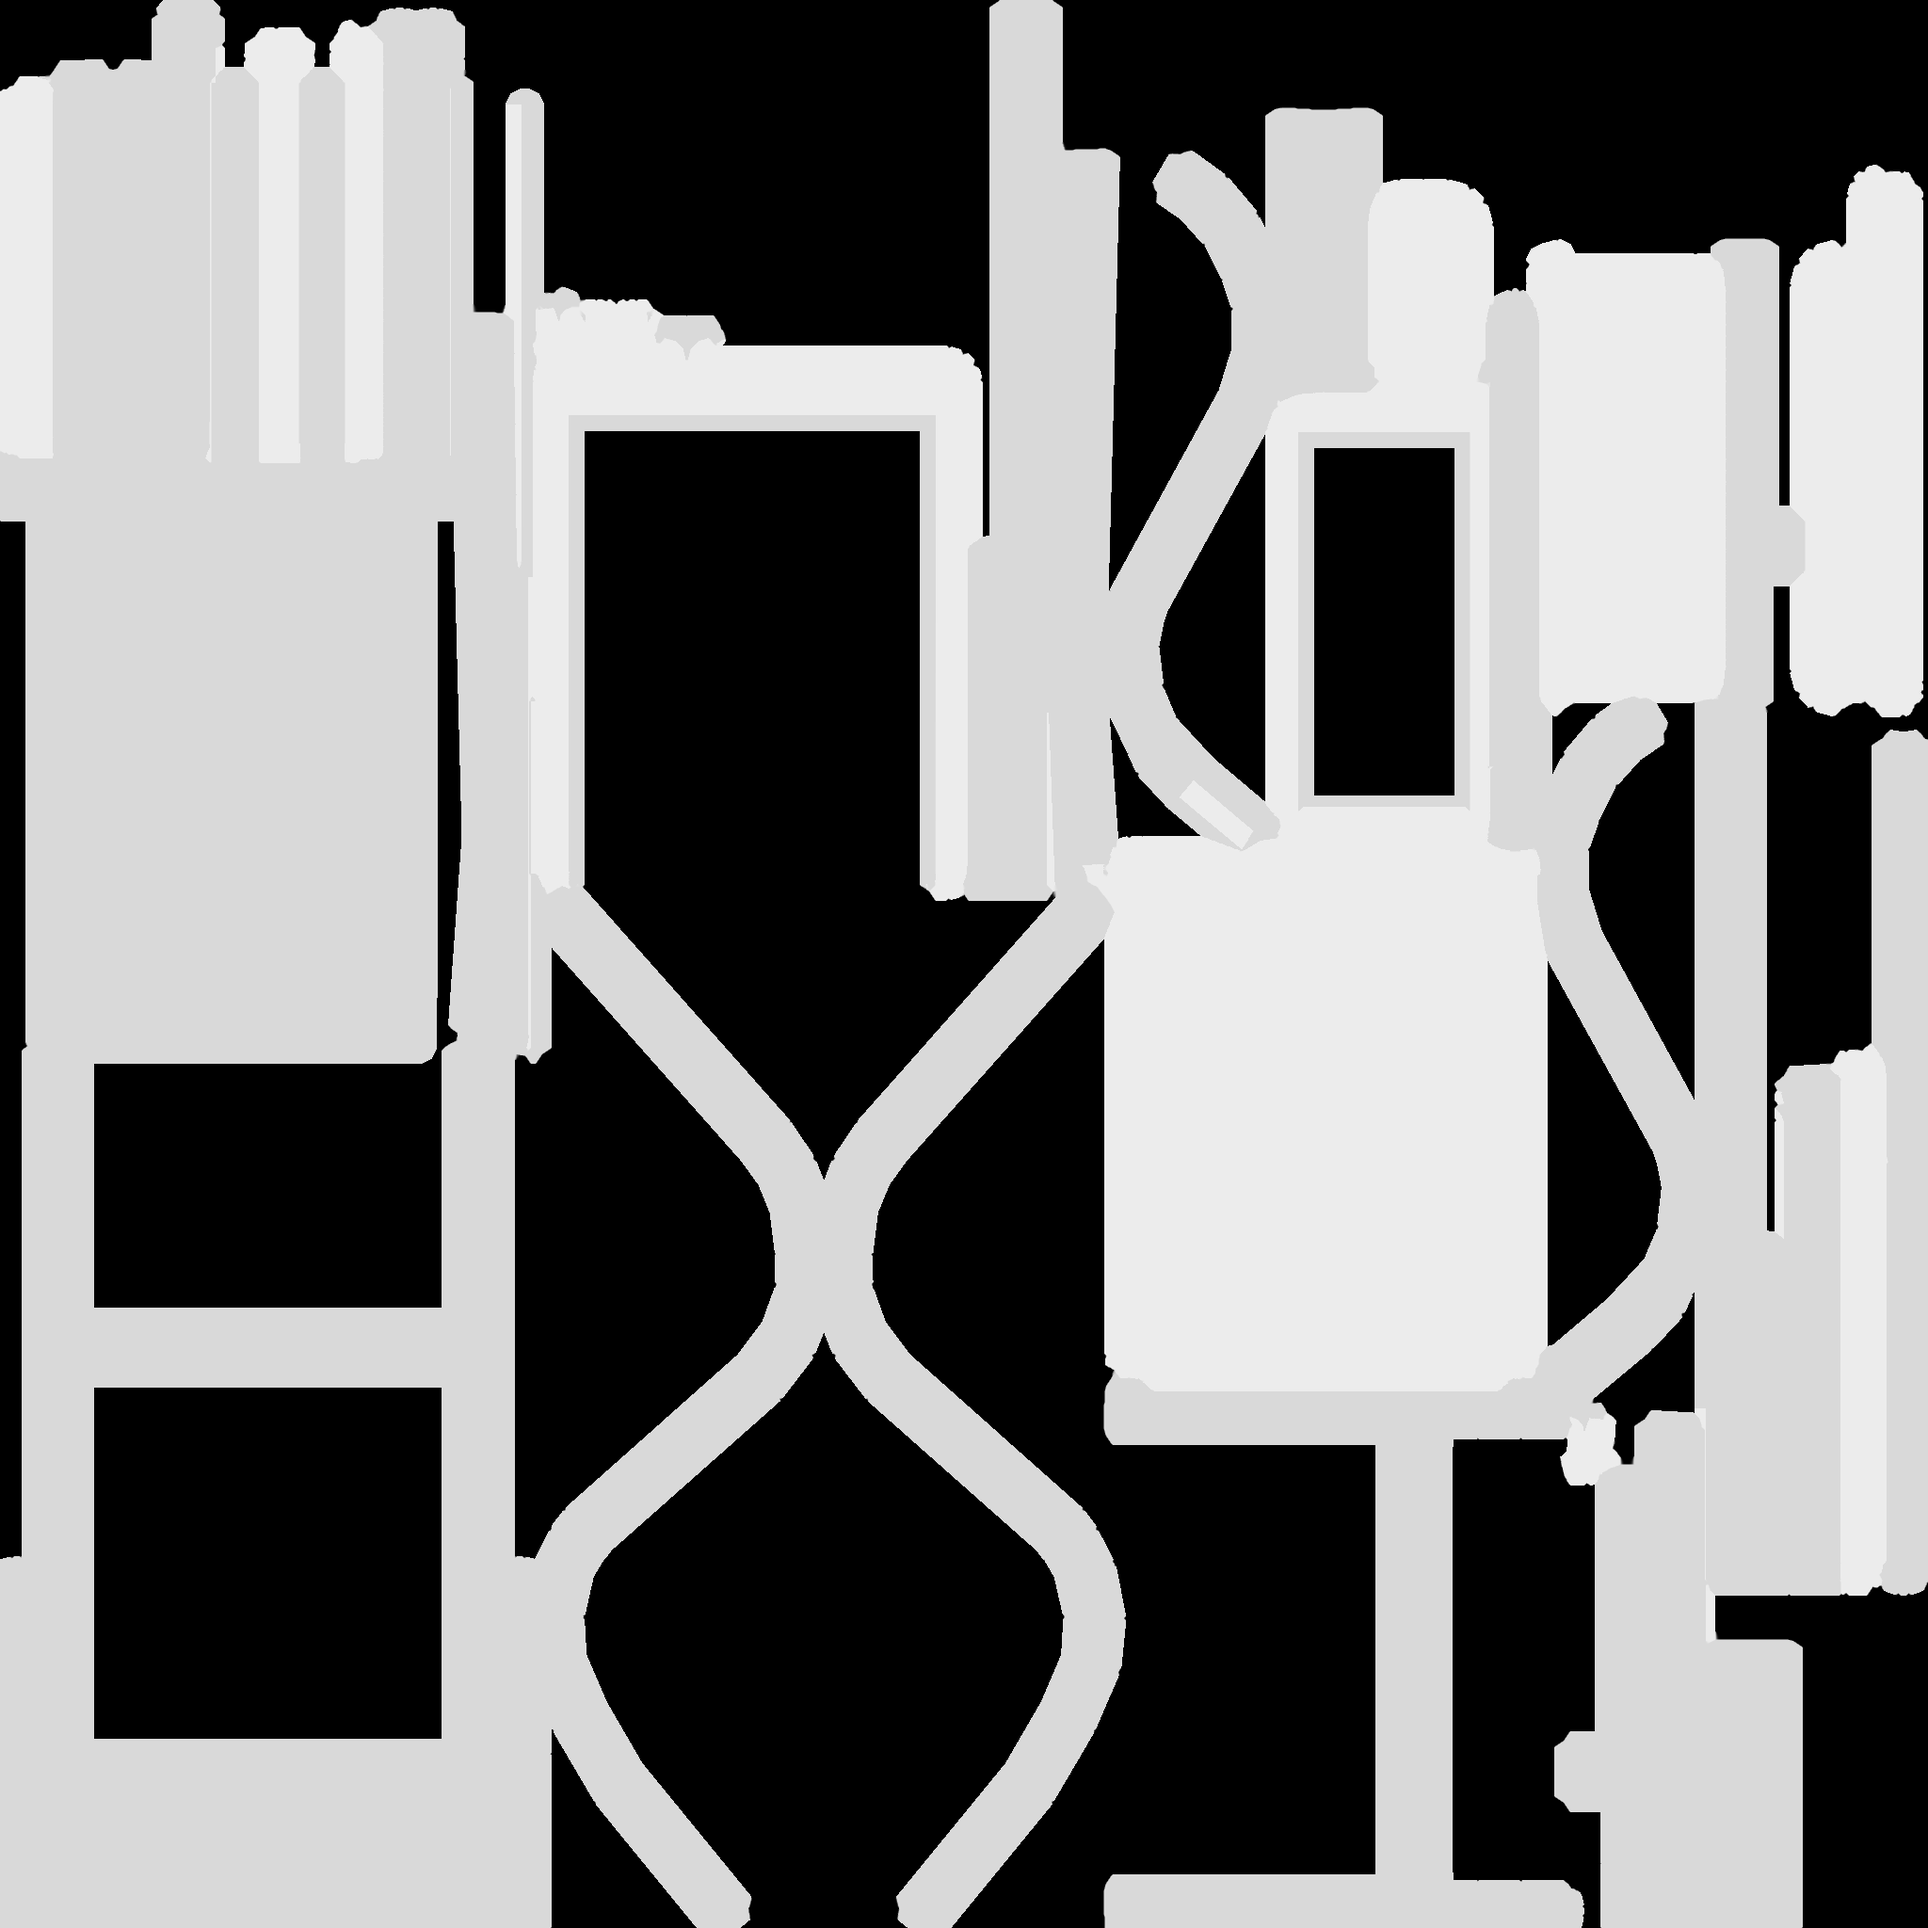
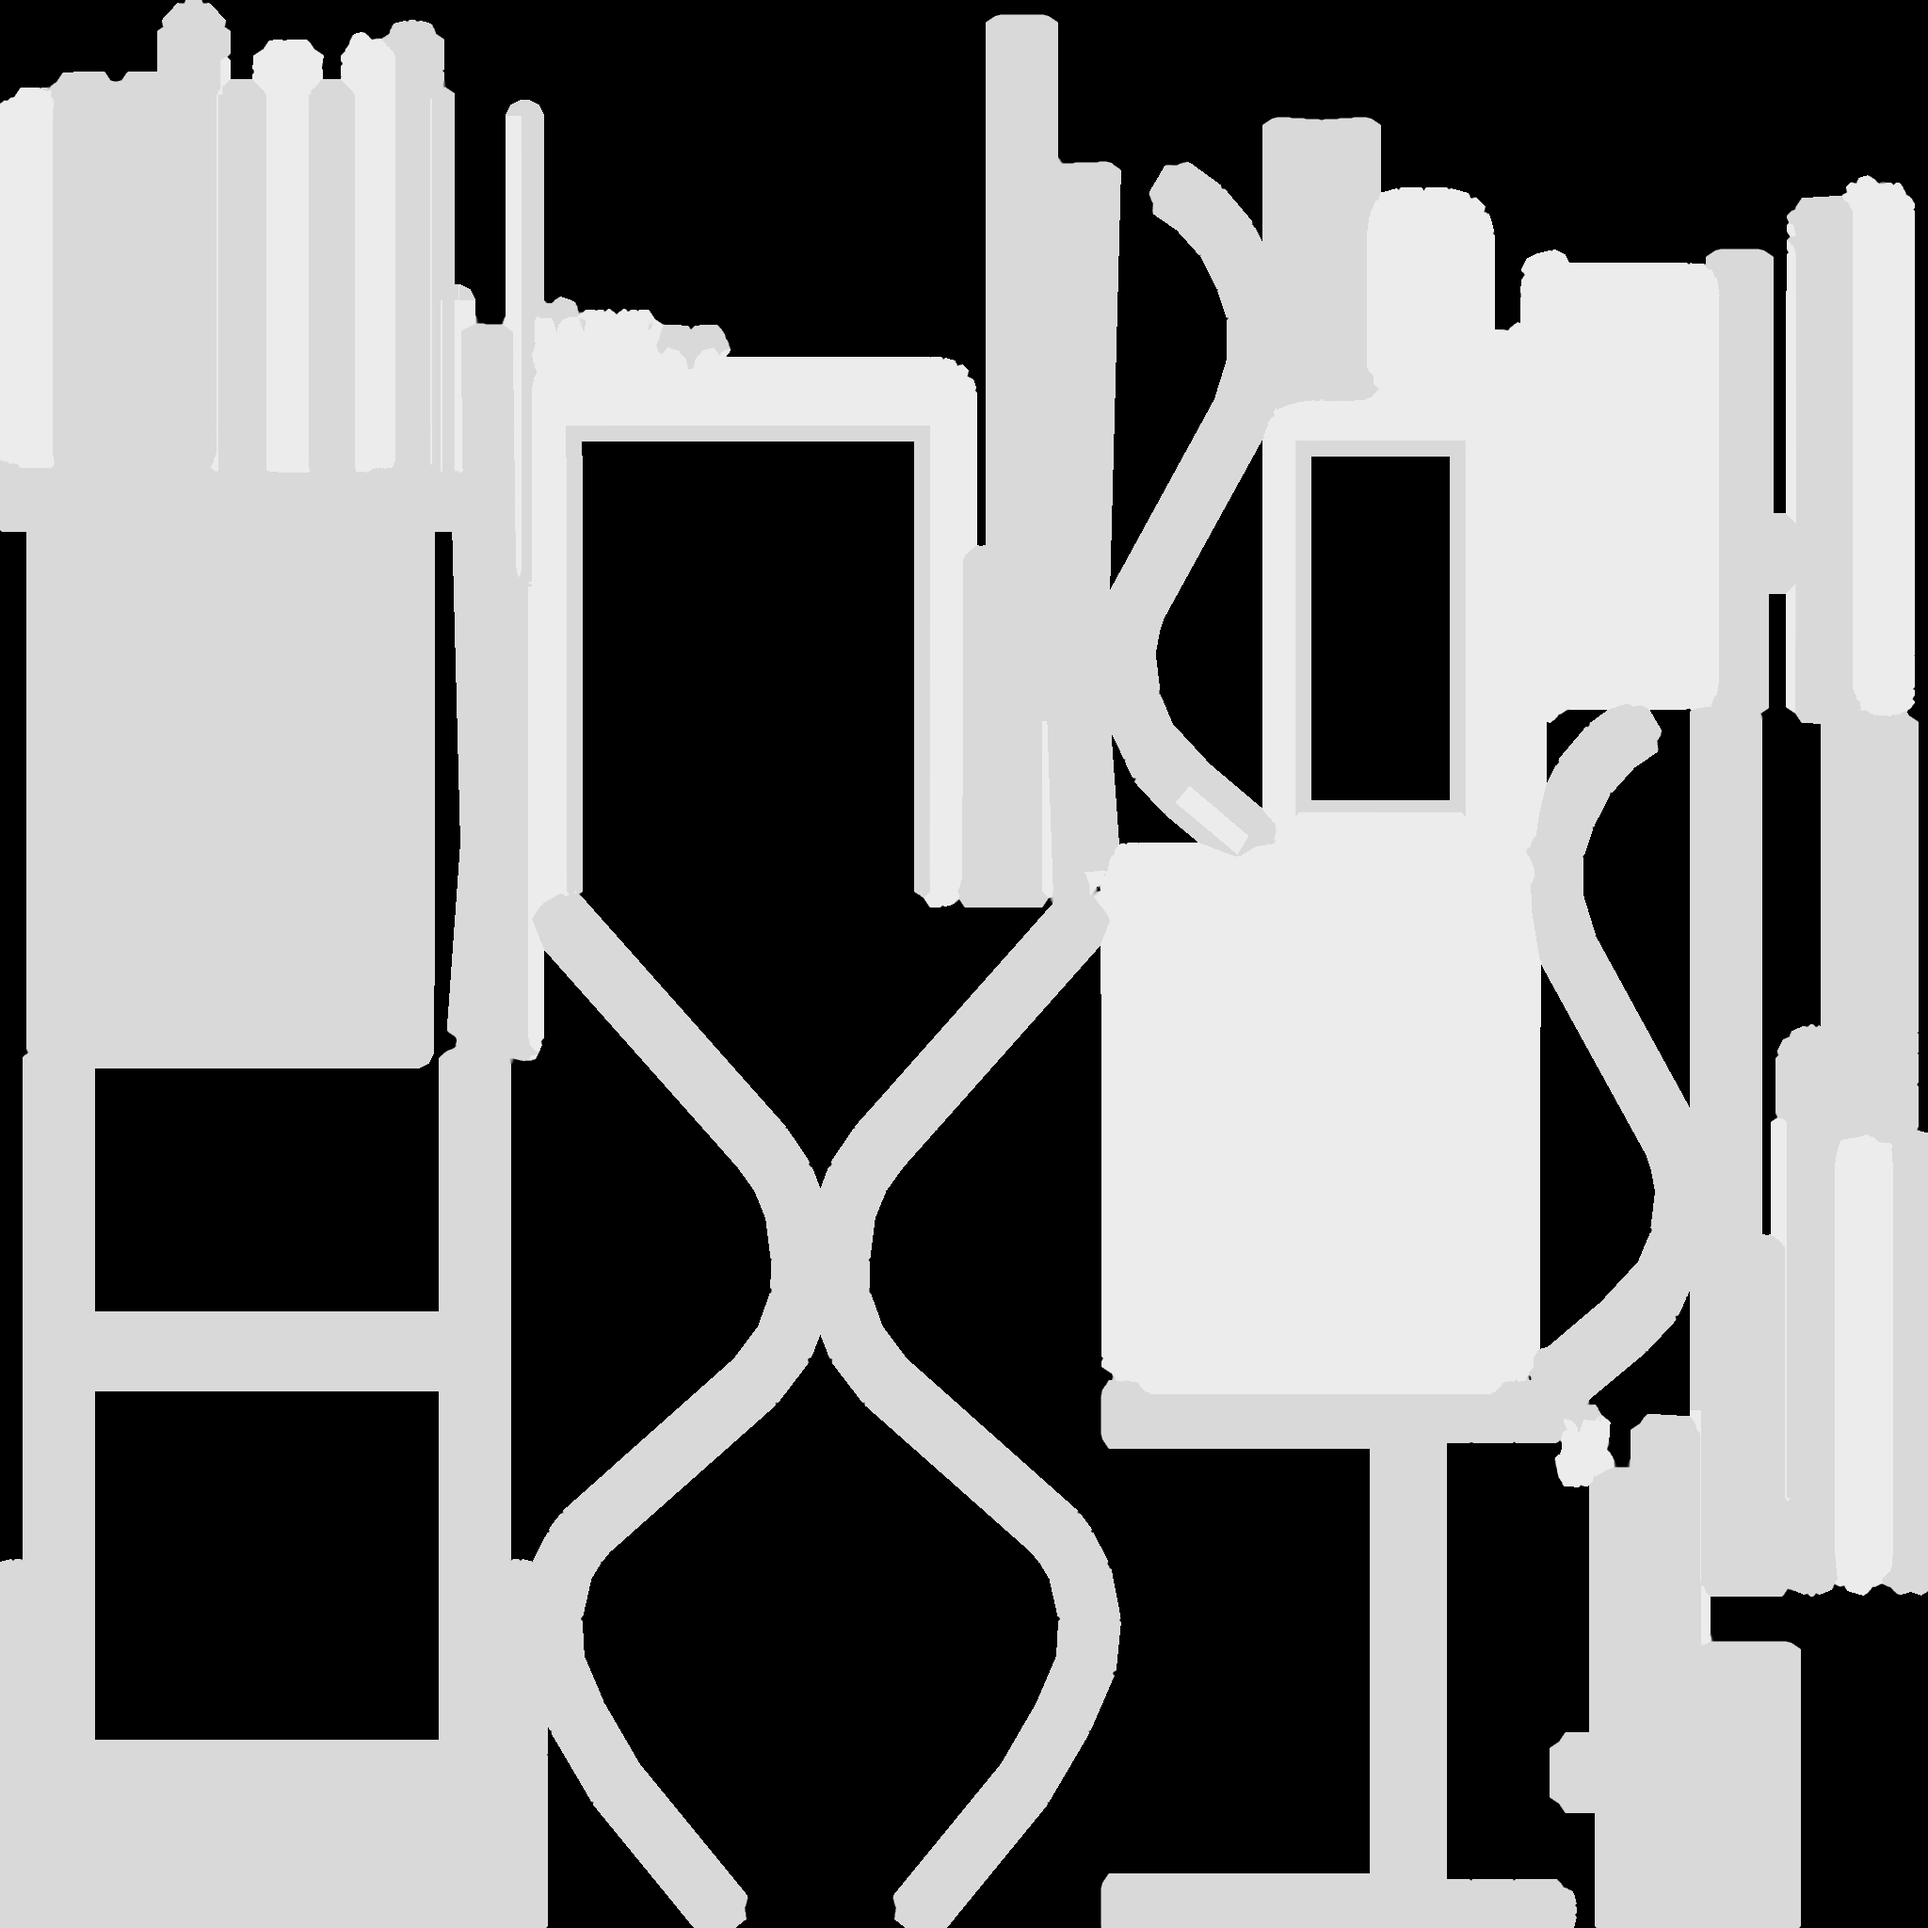
a

diff --git a/Assets/AnimalCare/AC_Scripts/AC_DogFoodPouring.cs b/Assets/AnimalCare/AC_Scripts/AC_DogFoodPouring.cs
@@ -7,6 +7,7 @@ public class AC_DogFoodPouring : MonoBehaviour
     public GameObject cereal;
     public Transform spawnPoint;
     public float fireSpeed = 20;
+    public int amount = 0;
     // Start is called before the first frame update
     void Start()
     {
@@ -15,8 +16,13 @@ public class AC_DogFoodPouring : MonoBehaviour
     }
     public void PourFood(ActivateEventArgs arg)
     {
-        GameObject spawnedFood = Instantiate(cereal);
-        spawnedFood.transform.position = spawnPoint.position;
-        spawnedFood.GetComponent<Rigidbody>().velocity = spawnPoint.forward * fireSpeed;
+        if (amount == 0)
+        {
+            GameObject spawnedFood = Instantiate(cereal);
+            spawnedFood.transform.position = spawnPoint.position;
+            spawnedFood.GetComponent<Rigidbody>().velocity = spawnPoint.forward * fireSpeed;
+            amount++;
+        }
+        
     }
 }

diff --git a/Assets/AnimalCare/AC_Scripts/AC_DogMovement.cs b/Assets/AnimalCare/AC_Scripts/AC_DogMovement.cs
@@ -16,6 +16,7 @@ public class AC_DogMovement : MonoBehaviour
 
     public AC_ChecklistManager checklistManager;
     public AC_ShakingCondition shakingCondition;
+    public AC_DogFoodPouring foodPouring;
 
     private NavMeshAgent navAgent;           // Reference to the dog's NavMeshAgent for movement
     private bool isEating = false;           // To check if the dog is already eating
@@ -115,6 +116,7 @@ public class AC_DogMovement : MonoBehaviour
     private IEnumerator WaitAndDestroy(GameObject DestroyedObject)
     {
         yield return new WaitForSeconds(4f);
+        foodPouring.amount = 0;
         Destroy(DestroyedObject); // Or use food.SetActive(false); to hide the food instead
         isEating = false;
         navAgent.isStopped = false;
